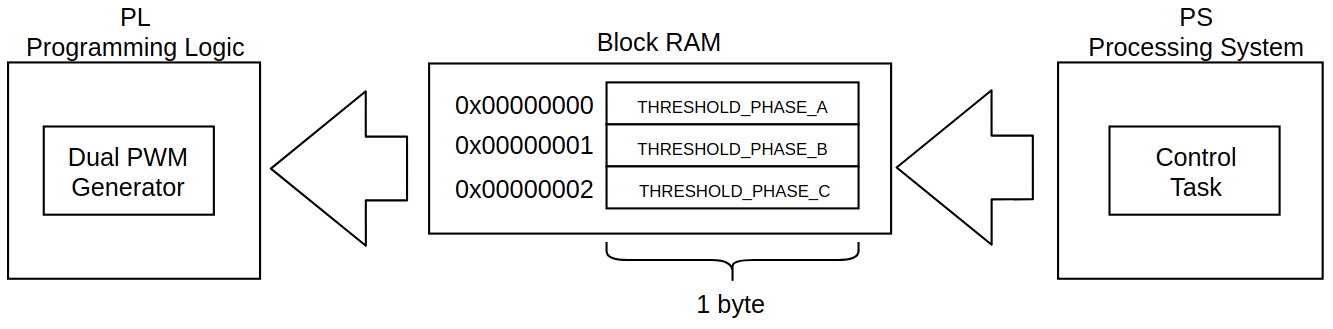
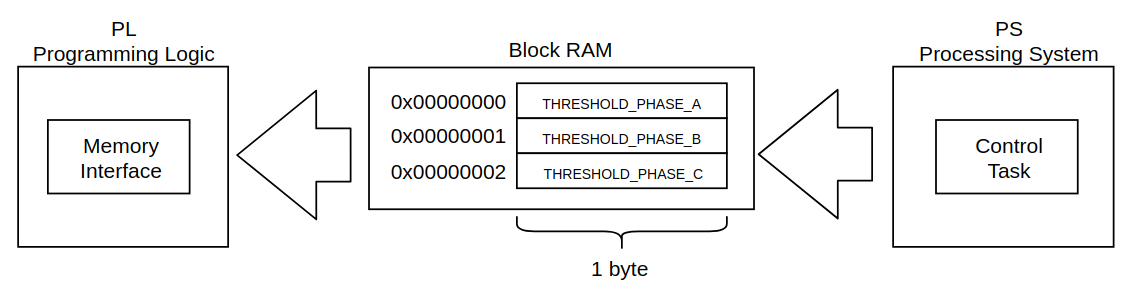
Updates from Overleaf

diff --git a/sections/hardware/driverboard/analysis.tex b/sections/hardware/driverboard/analysis.tex
@@ -1,6 +1,5 @@
 \subsubsection{Analysis}
-The gate driver selected for this design is the SI8261BAC-C-IS from Silicon Labs. It is driven by the $3.3V$ output of the Zybo while providing an output of $12V$, constrained by the attached $12V$ floating supply Cosel MGS1R54812. A floating supply is required for the high-side to be able to take on a potential independent of the power ground when its drain and source potential is constrained by the load and the battery voltage. The gate driver's ground floats along with the source potential of the FET so it is always able to provide a voltage of $12V$ between the gate and the source. The advantage of having an isolated supply for the low-side as well is better noise tolerance - the FETs reference level is made somewhat independent of the ripple current on the power ground from all the loads. The high-side floating supply also has the advantage over a bootstrap capacitor of not requiring  part of an output cycle to be used for charging the capacitor. This way more power can be used to propel the gokart.
-\todo{datasheet links}
+The gate driver selected for this design is the SI8261BAC-C-IS\cite{Si8261} from Silicon Labs. It is driven by the $3.3V$ output of the Zybo while providing an output of $12V$, constrained by the attached $12V$ floating supply Cosel MGS1R54812\cite{MGS1R5}. A floating supply is required for the high-side to be able to take on a potential independent of the power ground when its drain and source potential is constrained by the load and the battery voltage. The gate driver's ground floats along with the source potential of the FET so it is always able to provide a voltage of $12V$ between the gate and the source. The advantage of having an isolated supply for the low-side as well is better noise tolerance - the FETs reference level is made somewhat independent of the ripple current on the power ground from all the loads. The high-side floating supply also has the advantage over a bootstrap capacitor of not requiring  part of an output cycle to be used for charging the capacitor. This way more power can be used to propel the gokart.
 
 \begin{figure}[H]
 	\centering
@@ -15,7 +14,7 @@ A series of capacitors is attached both to the input and output of the floating 
 
 The turnon and turnoff times were chosen to be around the slower end of the available range to make the circuit less prone to overshoot and ringing caused by the parasitic inductances and capacitances inherently present in the layout. The analysis of deciding the switching frequency is detailed in section \ref{switching_frequency}. \\
 
-In Figure \ref{fig:CSI_current} and Figure \ref{fig:skew_current} taken from TIDA-00364 reference design by TI \todo{literature link}, the use of split gate resistors can be seen. These consist of R2, which is common to all the parallel MOSFETs, and R20 through 24, which are individual to each MOSFET . R2 helps to easily change the turnon gate current of all the parallel FETs by changing a single resistor instead of changing each of the individual resistors. R20 through R24 help in suppressing the circulating current between the gate of the MOSFETs, which may cause gate voltage ringing. To describe the mechanism, consider only two FETs in parallel as shown in Figure \ref{fig:CSI_current} . Due to the layout, the parasitic common source inductance (CSI) of all the FETs will not be equal. If both the FETs are turned on the same instant and if the di/dt of the drain currents are equal, the voltage across CSI of both FETs (VLs1 and VLs2) will not be equal. This drives a circulating current as shown in Figure \ref{fig:skew_current} . Another possibility is if there is a skew in the $V_{DS}$ rise and fall time of the parallel FETs, circulating current can flow through the $C_{GD}$ as shown in Figure \ref{fig:skew_current} and cause unwanted behavior. Using individual gate resistors help to suppress the circulating current and help damp unwanted ringing effects. Due to a misunderstanding, we failed to place split resistors, only one is placed at the output of the driver IC, parallel to a diode meant to provide quicker turn-off times. In the upcoming sections the case of the split resistors will be further examined, as it was the original plan.
+In Figure \ref{fig:CSI_current} and Figure \ref{fig:skew_current} taken from TIDA-00364\cite{TIDA-00364} reference design by TI, the use of split gate resistors can be seen. These consist of R2, which is common to all the parallel MOSFETs, and R20 through 24, which are individual to each MOSFET . R2 helps to easily change the turnon gate current of all the parallel FETs by changing a single resistor instead of changing each of the individual resistors. R20 through R24 help in suppressing the circulating current between the gate of the MOSFETs, which may cause gate voltage ringing. To describe the mechanism, consider only two FETs in parallel as shown in Figure \ref{fig:CSI_current} . Due to the layout, the parasitic common source inductance (CSI) of all the FETs will not be equal. If both the FETs are turned on the same instant and if the di/dt of the drain currents are equal, the voltage across CSI of both FETs (VLs1 and VLs2) will not be equal. This drives a circulating current as shown in Figure \ref{fig:skew_current} . Another possibility is if there is a skew in the $V_{DS}$ rise and fall time of the parallel FETs, circulating current can flow through the $C_{GD}$ as shown in Figure \ref{fig:skew_current} and cause unwanted behavior. Using individual gate resistors help to suppress the circulating current and help damp unwanted ringing effects. Due to a misunderstanding, we failed to place split resistors, only one is placed at the output of the driver IC, parallel to a diode meant to provide quicker turn-off times. In the upcoming sections the case of the split resistors will be further examined, as it was the original plan.
 
 \begin{figure}[H]
 	\centering

diff --git a/sections/hardware/powerboard/Power_Board.tex b/sections/hardware/powerboard/Power_Board.tex
@@ -72,7 +72,7 @@ When looking at the parameters, a couple of things need to be considered. From t
 \subsubsection{Power and heat dissipation in the transistors}
 There are two types of power losses in the transistors. One is conduction losses, which is caused by the intern resistance in MOSFET between the Drain and the Source, when the MOSFET is conducting. The other one is switching losses, which is caused then the MOSFETs is turning on and off. Based on the power loss calculations the expected heat increase of the MOSFETs can be estimated, which will be used to decide how many MOSFETs in parallel is needed.
 
-\paragraph{Conduction loss}
+\paragraph{Conduction power loss}
 When a MOSFET is conducting there will be a power dissipation due to the intern Drain-Source on resistance in the MOSFET. Thus the conduction power loss in the MOSFETs is calculated in the same way as the power loss in a resistor. Equation \ref{eq:ConductionLossMOSFET} describes the conduction power loss for one MOSFET, $P_{con/MOSFET}$.
 
     \begin{equation}
@@ -99,9 +99,11 @@ On figure \ref{fig:ConductionLoss} the relationship between conduction power los
 		\label{fig:ConductionLoss}
 	\end{figure} 
 
-For this the peak current, $I$, is set to $300 A$, and the Drain-Source on resistance, $R_{DSon}$, is set to ${1.9 m \Omega}$, which is value at $80 \degree C$. \todo{ref to data sheet}
+For figure \ref{fig:ConductionLoss} the peak current, $I$, is set to $300 A$, and the Drain-Source on resistance, $R_{DSon}$, is set to ${1.9 m \Omega}$, which is value at $80 \degree C$. \todo{ref to data sheet}
 
-\paragraph{Switching loss}
+On figure \ref{fig:ConductionLoss} it can be seen that the more MOSFETs there are placed in parallel per switch, the conduction power losses reduces exponentially, for both each MOSFET and for the hole inverter.
+
+\paragraph{Switching power loss}
 The other cause of power loss in the MOSFETs is the switching power loss. The switching power losses is caused by the period, when switching, where both the voltage over and the current through the MOSFET is not zero. This is called hard switching. Soft switching is when the MOSFET switching on or off without the voltage and current overlaps. This will not cost any power loss. This is illustrated on figure \ref{fig:HardSoftSwitch}.
 
     \begin{figure}[H]
@@ -120,11 +122,34 @@ The switching power is calculated as the area under the green line on figure \re
         \label{eq:sw_loss_MOSFET}
     \end{equation}
 
-Where $V_{batt}$ is the battery voltage, 
-Equation \ref{eq:sw_loss_MOSFET} is the switching power loss per MOSFET. To get the switching power loss for all of the MOSFETs in the inverter, this has to be multiplied with the number of parallel MOSFETs, two to take both the high- and low-side into to acount, and the number of phases, which is three.
+Where $V_{batt}$ is the battery voltage, $t_{on}$ is the turn on time, $t_{off}$ is the torn off time, and $f_{sw}$ is the switching frequency of the transistors.
+Equation \ref{eq:sw_loss_MOSFET} is the switching power loss per MOSFET. To get the switching power loss for all of the MOSFETs in the inverter, this has to be multiplied with the number of parallel MOSFETs, two to take both the high- and low-side into to account, and the number of phases, which is three.
 
     \begin{equation}
         P_{sw} = 0.5 \cdot 0.5 \cdot V_{batt} \cdot \frac{I}{N} \cdot (t_{on}+t_{off}) \cdot f_{sw} \cdot N \cdot 2 \cdot 3
         \label{eq:sw_loss}
     \end{equation}
+    
+From this equation, a curve of the switching power loss in one MOSFET and in all the MOSFETs versus the number of the parallel MOSFETs, is made.
 
+    \begin{figure}[H]
+		\centering
+		\includegraphics[width=0.8\textwidth]{pictures/hardware/Power_Board/Switch_loss.png}
+		\caption{Conduction power loss versus the number of parallel transistors in parallel per switch}
+		\label{fig:sw_loss}
+	\end{figure}
+	
+Again is the peak current, $I$, is set to $300 A$. The battery voltage, $V_{batt}$, is set to $57.6 V$ and the switching frequency is set to the chosen frequency: $10 kHz$. The turn on time, $t_{on}$, and the turn off time, $t_{off}$, is calculated with the following equations.
+
+    \begin{equation}
+        t_{on} = \frac{Q_{sw}}{I_{GSource}}
+    \end{equation}
+    
+    \begin{equation}
+        t_{off} = \frac{Q_{sw}}{I_{GSink}}
+    \end{equation}
+    
+Where $Q_{sw}$ is the switching charge of the MOSFET, which is stated in the Data sheet. \todo{ref to data sheet}
+$I_{GSource}$ and $I_{GSink}$ is respectively the current the driver deliverers to the Gate of the MOSFET when turning the MOSFET on and off. These are calculated in section \ref{sec:DriverDesign}. skriv noget om det kunne gå hurtigere men det ikke er foretrukket.
+
+On figure \ref{fig:sw_loss} it can be seen that the switching power loss of each MOSFET is reduced with number of parallel MOSFETs, but the over all power loss of the inverter is the same independent of the number of parallel MOSFETs.

diff --git a/sections/general/reading_guide.tex b/sections/general/reading_guide.tex
@@ -1,10 +1,48 @@
 \section{Reading guide}
-It is expected that this report will be read in chronological order, and that the reader has some background in hardware electronics and embedded systems.\\
+% The report is expected to be read in chronological order.
 
-The report starts out with an abstract in Danish and English in short explaining the report as a whole. The preface following gives a views of who has been in process of making this project. \\
+% The report starts out with an abstract in English in short explaining the report as a whole. The preface following gives a views of who has been in process of making this project. \\
 
-The introduction to the bulk of the report, starts out with a explanation of the project consist of, that leads into the different aspect of the project. Hardware and control explains the physical part need for the driver of the gokart. It goes into details of the electrical components used and why they specifically was chosen. The design of circuits and the implementation. The software explains the low-level drivers and signal routing implemented in the FPGA part of the controller as well as the higher level software implemented on the ARM core of the controller. \\
+% The introduction to the bulk of the report, starts out with a explanation of the project consist of, that leads into the different aspect of the project. Hardware and control explains the physical part need for the driver of the gokart. It goes into details of the electrical components used and why they specifically was chosen. The design of circuits and the implementation. The software explains the low-level drivers and signal routing implemented in the FPGA part of the controller as well as the higher level software implemented on the ARM core of the controller. \\
 
-Last part of the report, goes into discussion about project as a whole and conclusion explaining, if the goal of the project was reached. \\
+% Last part of the report, goes into discussion about project as a whole and conclusion explaining, if the goal of the project was reached. \\
 
-With the end being figure, lists, table of content and references.\\
+% With the end being figure, lists, table of content and references.\\
+
+
+\emph{Section \ref{sec:introduction} - Introduction}  
+
+\medskip
+\emph{Section \ref{sec:hardware} - Hardware} 
+
+\medskip
+\emph{Section \ref{sec:control} - Control} 
+
+\medskip
+\emph{Section \ref{sec:embedded_system} - Embedded system} contains descriptions of all elements implemented in logic on the FPGA as well as functionality implemented on the processing system. 
+
+\medskip
+\emph{Section \ref{sec:discussion} - Discussion} 
+
+\medskip
+\emph{Section \ref{sec:conclusion} - Conclusion} 
+
+\medskip
+\emph{Section \ref{sec:missing_features} - Missing features and future work} 
+
+\medskip
+\emph{Section \ref{sec:symbol_list} - Symbol list} contains a list of all symbols together with a short description.
+
+\medskip
+\emph{Section \ref{sec:abbreviation_list} - Abbreviation list} contains a list of all abbreviations together with a short description.
+
+\medskip
+\emph{Section \ref{sec:references} - References} 
+
+
+\medskip
+\emph{Section \ref{sec:appendix} - Appendix} 
+
+\quad \textit{Appendix \ref{app:}} 
+
+\quad \textit{Appendix \ref{app:}} 

diff --git a/sections/general/discussion.tex b/sections/general/discussion.tex
@@ -1,6 +1,26 @@
 \section{Discussion}
-To further explorer the project, having 4 months to create inveter, driver, control, embedded control and a physical product is a big task. This was also been stated before the project started, and while having done what was possible, with more time a physical inveter with all the controls could have been build. \\
+\label{sec:discussion}
+Discuss results
+ 
+What has been made? How do the results compare to theory?
+ 
+Are there any potential problems with the power board?
+If yes, how could they be fixed
 
-As of now the aspects, of what goes into a motor driver has been laid out. If more resources and time was the disposal, the theory to real world view could have been made clear. The reasoning for this statement has ground in previous semester groups. While discussing this current project, it's clear that theory and the physical world doesn't all ways match. This could have been a huge learning opportunity, hypothetically if a real motor driver was created tested and analyzed why it worked or didn't work, gives good knowledge of what needs to be in focus, if such a project comes around again. \\
+Are there any potential problems with the driver board?
+If yes, how could they be fixed.
+ 
+Are there any problems with the component choice?
+What would be something to look for in other components?
 
+Are there any problems with the control?
+If yes, how could they be fixed?
+
+How does the thermal analysis look? Could something be made better?
+
+Mechanical problems. Construction problems. Others?
+
+Is there any problems or missing features in the embedded software. What would be some potential things to correct
+
+ 
  

diff --git a/sections/software/ps/communication_to_pl.tex b/sections/software/ps/communication_to_pl.tex
@@ -1,5 +1,12 @@
 \subsection{Communication between PL and PS}
 Sending thresholds from the processing system to the PWM low-level modules are done through a piece of block RAM.
+The build-in block RAM of the Zybo consist of a 36kbit storage area with two independent access ports. 
+
+The PWM modules expect 8 bit thresholds which results in 24 bits or 3 bytes being used of the block RAM. 
+
+A mere 3 bytes account for around $0.08\%$ of the total block RAM. While this is a waste of the block RAM, it was chosen because of it being easily accessible from both the PS and PL and easy to set up. 
+
+When the control task on the processing system has run and produced the thresholds for each phase they are written into the first 3 bytes of the block RAM as can be seen on figure \ref{fig:com_pl_to_ps}.
 
 \begin{figure}[H]
 	\centering
@@ -8,9 +15,14 @@ Sending thresholds from the processing system to the PWM low-level modules are d
 	\label{fig:com_pl_to_ps}
 \end{figure}
 
+From here the memory interface module in the logic can collect the thresholds and parse them unto the three PWM modules as can be seen on figure \ref{fig:com_pl}. The PWM modules then use the thresholds to produce the PWM signals as discussed in section \ref{sec:pwm}.
+
+
 \begin{figure}[H]
 	\centering
 	\includegraphics[width=0.8\linewidth]{pictures/software/com_pl.png}
 	\caption{The data flow in the PL from the block RAM to the PWM generators.}
 	\label{fig:com_pl}
 \end{figure}
+
+

diff --git a/main.tex b/main.tex
@@ -66,7 +66,7 @@
 \setlength{\parindent}{0em}
 \title{Control of PMAC motor for an electrical kart}
 \author{University of Southern Denmark
- \\ \\ Students: \\ Casper Busch Melchiorsen, 010395 \\ David Kis-Toth, 472504\\ Jacob Offersen, 311294 \\ Jonas Holmgren, \\ Peter Nielsen, \\ \\
+ \\ \\ Students: \\ Casper Busch Melchiorsen, 010395 \\ David Kis-Toth, 060193\\ Jacob Offersen, 311294 \\ Jonas Holmgren, \\ Peter Nielsen, \\ \\
 Supervisors: \\ 
 Karsten Holm Andersen: \href{mailto:kha@mci.sdu.dk}{\textit{kha@mci.sdu.dk}} \\
 Kurt Bloch Jessen: \href{mailto:kbj@mci.sdu.dk}{\textit{kbj@mci.sdu.dk}}}
@@ -83,7 +83,7 @@ Kurt Bloch Jessen: \href{mailto:kbj@mci.sdu.dk}{\textit{kbj@mci.sdu.dk}}}
 
 
 % Front page
-\input{sections/general/frontpage.tex}
+% \input{sections/general/frontpage.tex}
 
 \newpage
 % Signatures
@@ -91,7 +91,6 @@ Kurt Bloch Jessen: \href{mailto:kbj@mci.sdu.dk}{\textit{kbj@mci.sdu.dk}}}
 
 % Abstract
 \input{sections/general/abstract.tex}
-
 
 % Preface
 \input{sections/general/preface.tex}
@@ -124,6 +123,10 @@ Kurt Bloch Jessen: \href{mailto:kbj@mci.sdu.dk}{\textit{kbj@mci.sdu.dk}}}
 \newpage
 % Conclusion
 \input{sections/general/conclusion.tex}
+
+\newpage
+% Missing features
+\input{sections/general/missing_features.tex}
 
 \newpage
 % Litterature

diff --git a/sections/general/conclusion.tex b/sections/general/conclusion.tex
@@ -1,15 +1,15 @@
 \section{Conclusion}
+\label{sec:conclusion}
+% \begin{itemize}
+% \item We need to comment on the inverter
+%     \begin{itemize}
+%         \item Inverter
+%         \item Driver
+%         \item Contruction
+%         \item does it live up to the requirements
+%     \end{itemize}
+% \item Explaination of how the control circuit, is the correct version of the motor model with correct values for the controllers.
+% \item comment on the programming
+% Explain how the different parts of the "program" can be used in conjunction with the inverter, in order to get the motor running.
 
-\begin{itemize}
-\item We need to comment on the inverter
-    \begin{itemize}
-        \item Inverter
-        \item Driver
-        \item Contruction
-        \item does it live up to the requirements
-    \end{itemize}
-\item Explaination of how the control circuit, is the correct version of the motor model with correct values for the controllers.
-\item comment on the programming
-Explain how the different parts of the "program" can be used in conjunction with the inverter, in order to get the motor running.
-
-\end{itemize}
+% \end{itemize}

diff --git a/sections/general/References.tex b/sections/general/References.tex
@@ -1,4 +1,5 @@
 \section{References}
+\label{sec:references}
 
 %to use the Reference \cite{Name of the source},
 
@@ -8,9 +9,29 @@ Project 1. semester - S19 - Electronics - ver1.pdf, \\
 Karsten Holm Andersen, (2019)
 
 \bibitem{Motor_Parameters}
-http://www.motenergy.com/me1117.html
+\url{http://www.motenergy.com/me1117.html}
 Parameters taken from the production desciption
 Motenergy \copyright 2011
- 
+
+\bibitem{TIDA-00364}
+Texas Instruments TIDA-00364 reference design, \\
+Pawan Nayak, N. Navaneeth Kumar, \\
+\url{http://www.ti.com/tool/TIDA-00364}
+
+\bibitem{mosfet}
+Infineon IPB017N10N5 datasheet, \\
+\url{https://www.infineon.com/dgdl/Infineon-IPB017N10N5-DS-v02_01-EN.pdf?fileId=5546d4624a75e5f1014ac4a981111eed}
+
+\bibitem{1N5821G}
+ON Semiconductor 1N5821G datasheet, \\
+\url{https://docs-emea.rs-online.com/webdocs/1573/0900766b81573229.pdf}
+
+\bibitem{Si8261}
+Silicon Labs Si88261BAD datasheet, \\
+\url{https://docs-emea.rs-online.com/webdocs/1299/0900766b81299254.pdf}
+
+\bibitem{MGS1R5}
+Cosel MGS1R5 datasheet, \\
+\url{https://docs-emea.rs-online.com/webdocs/1690/0900766b81690263.pdf}
 
 \end{thebibliography}

diff --git a/sections/software/pl/pwm.tex b/sections/software/pl/pwm.tex
@@ -1,5 +1,5 @@
 \subsubsection{PWM module}
-
+\label{sec:pwm}
 Each phase of the inverter is controlled by a PWM signal for its high-side leg and one for its low-side leg. 
 
 The module shown on figure \ref{fig:pwm_module} is made to control both the high-side and low-side transistors of a leg in the inverter. Three instances of the module is used to control all three phases.
@@ -190,7 +190,7 @@ To trigger a new reading by the ADC the PWM generator module has a build-in puls
 \begin{figure}[H]
 	\centering
 	\includegraphics[width=0.8 \textwidth]{pictures/software/adc_pulses.eps}
-	\caption{}
+	\caption{The top graph shows the high and low side PWM signals. The bottom graph shows the ADC pulses triggered in the middle of each PWM signal.}
 	\label{fig:adc_pulses}
 \end{figure}
 

diff --git a/sections/software/pl/adc.tex b/sections/software/pl/adc.tex
@@ -14,7 +14,7 @@ To control the ADC the IP block \textit{XADC} is used which can be seen on figur
 \begin{figure}[H]
 	\centering
 	\includegraphics[width=0.35\textwidth]{pictures/software/adc.png}
-	\caption{}
+	\caption{IP core to handle the two ADC in the Zynq.}
 	\label{fig:adc_module}
 \end{figure}
 
@@ -25,7 +25,7 @@ The signal end-of-sequence, \textit{eos\textunderscore out}, outputs a pulse whe
 \begin{figure}[H]
 	\centering
 	\includegraphics[width=0.5\textwidth]{pictures/software/adc_block_diagram.png}
-	\caption{}
+	\caption{Function diagram showing the signals in and out of the ADC module.}
 	\label{fig:adc_block_diagram}
 \end{figure}
 

diff --git a/sections/general/introduction.tex b/sections/general/introduction.tex
@@ -1,4 +1,5 @@
 \section{Introduction}
+\label{sec:introduction}
 One of the most important and useful machine, when talking about electronics. Is the BLDC and PMAC (permanent magnet motor), reason being the highly versatile use in both household object and electrical transport. This report focuses on the controlling of a ME1117 Brush less Permanent Magnet Motor, for an electrical kart. \\
 
 More precisely this project is a semester project, where SDU needs to replace the current motor driver of an electric gokart, with the groups own design. \\

diff --git a/sections/software/pl/encoder.tex b/sections/software/pl/encoder.tex
@@ -196,7 +196,7 @@ f32 interpolateAngle(f32 angle){
 			t2v = angle;				               // Update value of t2 to current angle
 			nSamples = 0;				               // Reset number of samples on step
 		}
-% 		u32 nStep = t2 - t1;				       // Get time on last step (approximation)
+ 		u32 nStep = t2 - t1;				         // Get time on last step (approximation)
 		f32 angleStep = t2v-t1v;	           // Get angle step
 		angleInterpolated = nSamples/nStep * angleStep + angle; // Calculate new angle
 	}
